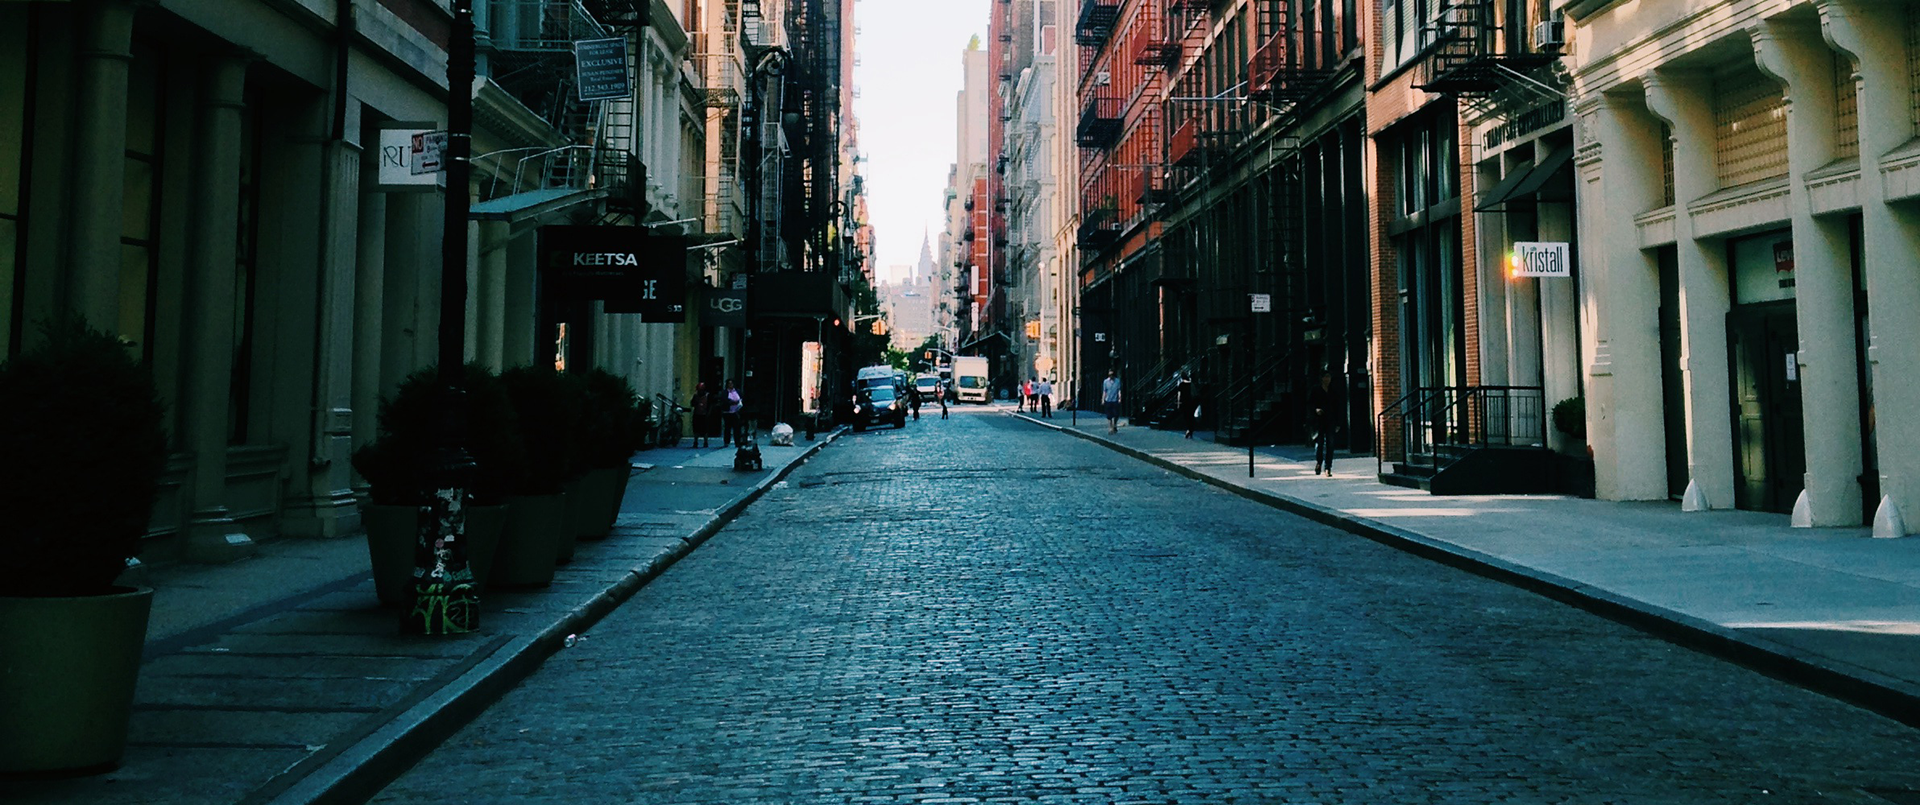
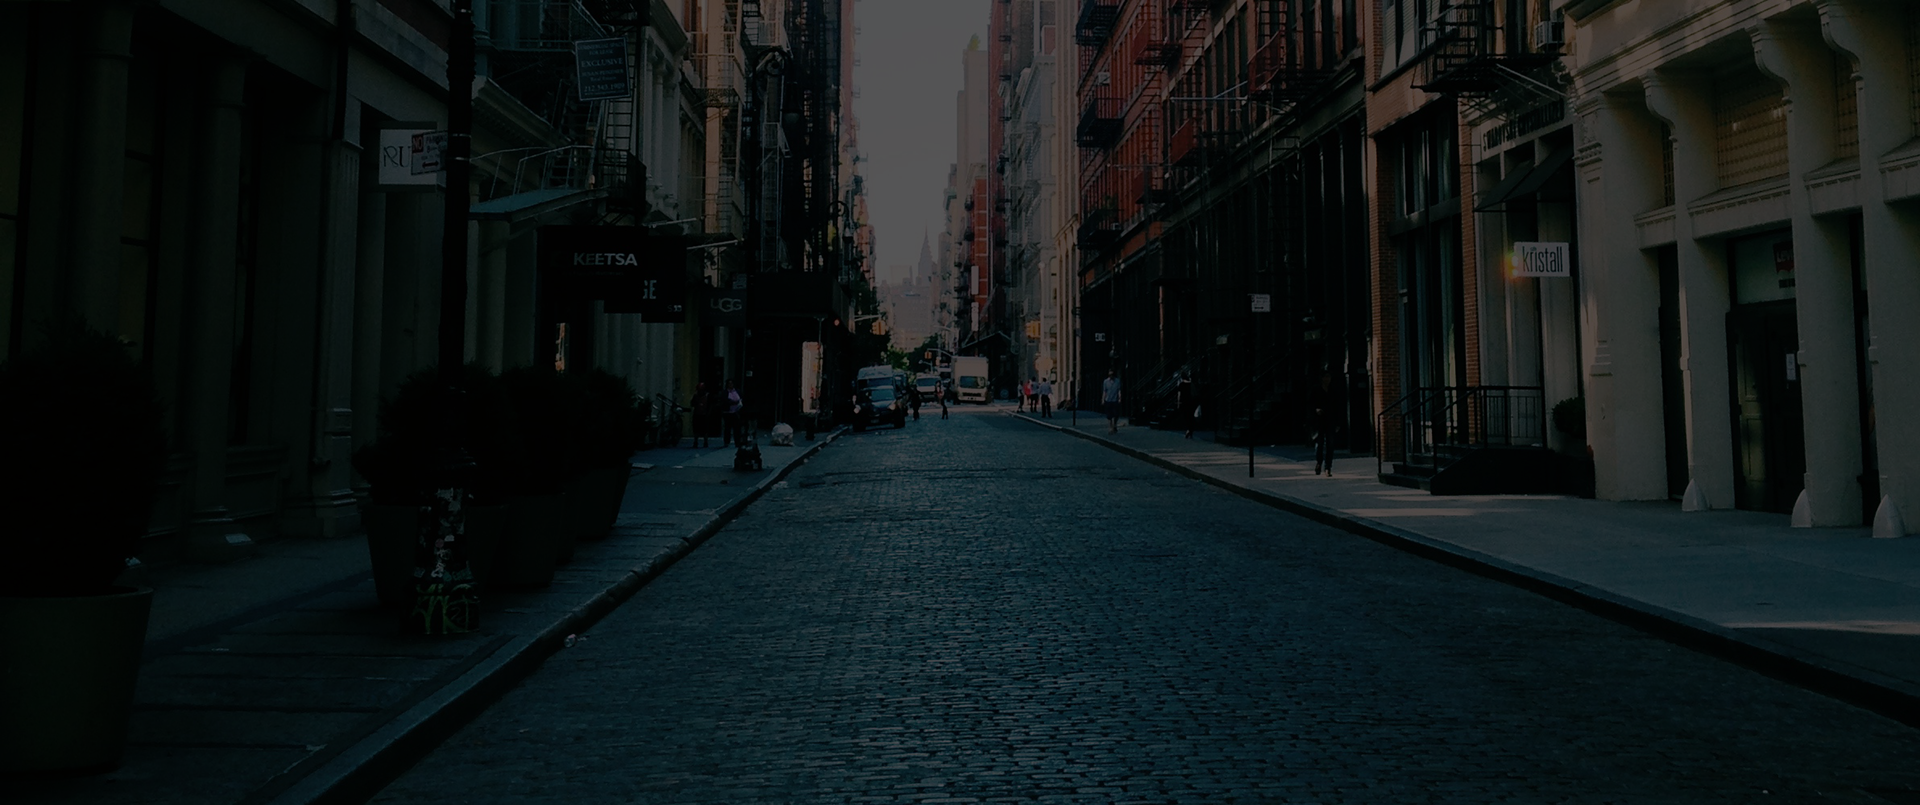
Add two sections, change some images
Added 'testimonials' and 'registration' sections.
Changed 8 images.

diff --git a/index.html b/index.html
@@ -36,7 +36,7 @@
     </header>
 
     <main>
-      <section class="section section_pos_right flex-cont">
+      <section class="section flex-cont">
         <img class="section__img" src="resources/images/brief-screenshot.png">
         <div class="flex-cont flex-cont_dir_column">
           <h2 class="section__heading">Explore the awesomeness</h2>
@@ -133,8 +133,22 @@
         <h2 class="section__heading">Watch Video</h2>
         <hr class="section__line section__line_features">
         <p class="section__descr section__text">Term sheet convertible note colluding bootstrapping.</p>
-        <div class="video section__video">
+        <div class="video section__main-content">
           <iframe class="video__iframe" width="560" height="315" src="https://www.youtube.com/embed/POb02mjj2zE" title="YouTube video player" frameborder="0" allow="accelerometer; autoplay; clipboard-write; encrypted-media; gyroscope; picture-in-picture" allowfullscreen></iframe>
+        </div>
+        <div class="section__video-feature-block flex-cont flex-cont_justify_space-between">
+          <div class="section__video-feature flex-cont">
+            <img class="section__video-feature-img" src="resources/images/video-icon-1.png">
+            <h3 class="section__subheading section__subheading_size_m">Trusted by 100+ users</h3>
+          </div>
+          <div class="section__video-feature flex-cont">
+            <img class="section__video-feature-img" src="resources/images/video-icon-2.png">
+            <h3 class="section__subheading section__subheading_size_m">Video Documentation</h3>
+          </div>
+          <div class="section__video-feature flex-cont">
+            <img class="section__video-feature-img" src="resources/images/video-icon-3.png">
+            <h3 class="section__subheading section__subheading_size_m">24/7 Chat Support</h3>
+          </div>
         </div>
       </section>
 
@@ -142,30 +156,29 @@
         <h2 class="section__heading">Product Screenshots</h2>
         <hr class="section__line section__line_features">
         <p class="section__descr section__text">Term sheet convertible note colluding bootstrapping.</p>
-        <div class="slider section__slider">
-          <input class="slider__input" type="radio" name="radio-btn" id="slide-1" checked />
+        <div class="slider section__main-content">
+          <input class="slider__input" type="radio" name="radio-btn" id="slide-1" checked>
           <div class="slider__slide flex-cont flex-cont_justify_space-between">
-            <img class="slider__img" src="resources/images/screenshot-1.png" />
-            <img class="slider__img" src="resources/images/screenshot-2.png" />
-            <img class="slider__img" src="resources/images/screenshot-3.png" />
+            <img class="slider__img" src="resources/images/screenshot-1.png">
+            <img class="slider__img" src="resources/images/screenshot-2.png">
+            <img class="slider__img" src="resources/images/screenshot-3.png">
           </div>
-          <input class="slider__input" type="radio" name="radio-btn" id="slide-2" />
+          <input class="slider__input" type="radio" name="radio-btn" id="slide-2">
           <div class="slider__slide flex-cont flex-cont_justify_space-between">
-            <img class="slider__img" src="resources/images/screenshot-2.png" />
-            <img class="slider__img" src="resources/images/screenshot-3.png" />
-            <img class="slider__img" src="resources/images/screenshot-1.png" />
+            <img class="slider__img" src="resources/images/screenshot-2.png">
+            <img class="slider__img" src="resources/images/screenshot-3.png">
+            <img class="slider__img" src="resources/images/screenshot-1.png">
           </div>
-          <input class="slider__input" type="radio" name="radio-btn" id="slide-3" />
+          <input class="slider__input" type="radio" name="radio-btn" id="slide-3">
           <div class="slider__slide flex-cont flex-cont_justify_space-between">
-            <img class="slider__img" src="resources/images/screenshot-3.png" />
-            <img class="slider__img" src="resources/images/screenshot-1.png" />
-            <img class="slider__img" src="resources/images/screenshot-2.png" />
+            <img class="slider__img" src="resources/images/screenshot-3.png">
+            <img class="slider__img" src="resources/images/screenshot-1.png">
+            <img class="slider__img" src="resources/images/screenshot-2.png">
           </div>
           <div class="slider__dots-block">
           <label for="slide-1" class="slider__dot" id="slide-1-dot"></label>
           <label for="slide-2" class="slider__dot" id="slide-2-dot"></label>
           <label for="slide-3" class="slider__dot" id="slide-3-dot"></label>
-        </div>
         </div>
       </section>
 
@@ -173,7 +186,47 @@
         <h2 class="section__heading">Trusted by Thousands</h2>
         <hr class="section__line section__line_features">
         <p class="section__descr section__text">Term sheet convertible note colluding bootstrapping.</p>
-        
+        <div class="section__main-content flex-cont flex-cont_justify_center flex-cont_align_center">
+          <img class="section__clients-img" src="resources/images/clients-vogue.png">
+          <img class="section__clients-img" src="resources/images/clients-mashable.png">
+          <img class="section__clients-img" src="resources/images/clients-tnw.png">
+          <img class="section__clients-img" src="resources/images/clients-natgeo.png">
+        </div>
+        <div class="section__testimonial-block flex-cont flex-cont_justify_center flex-cont_align_center">
+          <div class="section__testimonial flex-cont flex-cont_dir_column flex-cont_align_center">
+            <img class="section__testimonial-icon" src="resources/images/clients-testimonial-icon.png">
+            <div class="section__testimonial-text">
+              <p class="section__text section__text-it">Lorem lean startup ipsum product market fit customer development acquihire technical cofounder. User engagement A/B testing shrink a market venture capital pitch deck. Social bookmarking group buying crowded market pivot onboarding.</p>
+            </div>
+            <div class="section__testimonial-bg"></div>
+            <p class="section__testimonial-name section__subheading_size_s">Willeke Hoekstra</p>
+            <p class="section__testimonial-company">AbZ Network</p>
+          </div>
+          <div class="section__testimonial flex-cont flex-cont_dir_column flex-cont_align_center">
+            <img class="section__testimonial-icon" src="resources/images/clients-testimonial-icon.png">
+            <div class="section__testimonial-text">
+              <p class="section__text section__text-it">Lorem lean startup ipsum product market fit customer development acquihire technical cofounder. User engagement A/B testing shrink a market venture capital pitch deck. Social bookmarking group buying crowded market pivot onboarding.</p>
+            </div>
+            <div class="section__testimonial-bg"></div>
+            <p class="section__testimonial-name section__subheading_size_s">Răducu Neamțu</p>
+            <p class="section__testimonial-company">AbZ Network</p>
+          </div>
+          <div class="section__testimonial flex-cont flex-cont_dir_column flex-cont_align_center">
+            <img class="section__testimonial-icon" src="resources/images/clients-testimonial-icon.png">
+            <div class="section__testimonial-text">
+              <p class="section__text section__text-it">Lorem lean startup ipsum product market fit customer development acquihire technical cofounder. User engagement A/B testing shrink a market venture capital pitch deck. Social bookmarking group buying crowded market pivot onboarding.</p>
+            </div>
+            <div class="section__testimonial-bg"></div>
+            <p class="section__testimonial-name section__subheading_size_s">Markel Díaz</p>
+            <p class="section__testimonial-company">AbZ Network</p>
+          </div>
+        </div>
+      </section>
+
+      <section class="section section_centered section_registration flex-cont flex-cont_dir_column flex-cont_align_stretch">
+        <p class="section__registration-text section__registration-text_addit">We Are Ready to Help You</p>
+        <p class="section__registration-text section__registration-text_main">Get the Best Solution for Your Business</p>
+        <button class="section__registration-button blue-button" type="button">Get started</button>
       </section>
     </main>
 

diff --git a/resources/styles/style.css b/resources/styles/style.css
@@ -26,6 +26,21 @@
   width: auto;
 }
 
+.blue-button {
+  background-color: var(--color-blue-two);
+  border-radius: 3px;
+  border-color: var(--color-blue-two);
+  color: var(--color-white);
+  font-family: var(--font-family-primary);
+  font-size: 16px;
+  font-weight: 700;
+  height: 54px;
+  line-height: 30px;
+  min-width: 144px;
+  text-transform: uppercase;
+  width: 184px;
+}
+
 /*////////// FLEXBOX //////////*/
 
 .flex-cont {
@@ -152,13 +167,14 @@
 .reg-form__submit {
   background-color: var(--color-blue-two);
   border-radius: 3px;
+  border-color: var(--color-blue-two);
   color: var(--color-white);
   font-family: var(--font-family-primary);
   font-size: 16px;
   font-weight: 700;
   height: 54px;
   line-height: 30px;
-  margin: 12.5px;
+  margin: 12.5px;                                                         /* change in feature-header */
   min-width: 144px;
   text-transform: uppercase;
   width: 184px;
@@ -193,11 +209,6 @@
   padding: 100px 20%;
 }
 
-.section_video {
-  background-color: var(--color-white);
-  padding: 100px 26%;
-}
-
 .section_centered {
   align-items: center;
   text-align: center;
@@ -211,12 +222,29 @@
   flex-direction: row-reverse;
 }
 
+.section_video {
+  background-color: var(--color-white);
+  padding: 100px 26%;
+}
+
+.section_registration {
+  background-image: url("../images/registration-background.png");
+  background-position: center 82.5%;
+  background-repeat: no-repeat;
+  background-size: cover;
+  margin-bottom: 200px;
+}
+
 .section__text {
   color: var(--color-gray-two);
   font-family: var(--font-family-secondary);
   font-size: 16px;
   font-weight: 400;
   line-height: 25px;
+}
+
+.section__text-it {
+  font-style: italic;
 }
 
 .section__img {
@@ -272,7 +300,7 @@
 .section__subheading_size_m {
   font-size: 18px;
   font-weight: 700;
-  line-height: 64px;
+  line-height: 24px;
 }
 
 .section__subheading_size_l {
@@ -281,12 +309,87 @@
   line-height: 64px;
 }
 
-.section__video {
-  margin: 70px 0px;
+.section__main-content {
+  align-self: stretch;
+  margin: 70px 0px 0px;
 }
 
-.section__slider {
-  margin: 70px 0px 0px;
+.section__video-feature-block {
+  align-self: stretch;
+  padding: 45px 3% 0px;
+}
+
+.section__video-feature {
+  align-items: flex-start;
+}
+
+.section__video-feature-img {
+  padding: 0px 7.5px 0px 0px;
+}
+
+.section__clients-img {
+  padding: 0px 20px;
+}
+
+.section__testimonial-block {
+  margin: 50px 0px 0px;
+}
+
+.section__testimonial {
+  padding: 0px 14px;
+}
+
+.section__testimonial-icon {
+  position: relative;
+  top: 20px;
+}
+
+.section__testimonial-text {
+  background-color: var(--color-gray-three);
+  background-repeat: no-repeat;
+  padding: 35px;
+}
+
+.section__testimonial-bg {
+  background-image: url("../images/clients-testimonial-background.png");
+  background-position: center;
+  height: 17px;
+  width: 100%;
+}
+
+.section__testimonial-name {
+  color: var(--color-blue);
+  font-family: var(--font-family-secondary);
+  padding: 6px 0px 0px;
+}
+
+.section__testimonial-company {
+  color: var(--color-gray-two);
+  font-family: var(--font-family-secondary);
+  font-size: 13px;
+  font-weight: 400;
+  line-height: 20px;
+}
+
+.section__registration-text {
+  color: var(--color-white);
+  font-family: var(--font-family-primary);
+  font-weight: 700;
+  line-height: 35px;
+}
+
+.section__registration-text_addit {
+  font-size: 20px;
+  padding: 35px 0px 0px;
+}
+
+.section__registration-text_main {
+  font-size: 35px;
+  padding: 20px 0px 0px;
+}
+
+.section__registration-button {
+  margin: 50px 0px 30px;
 }
 
 
